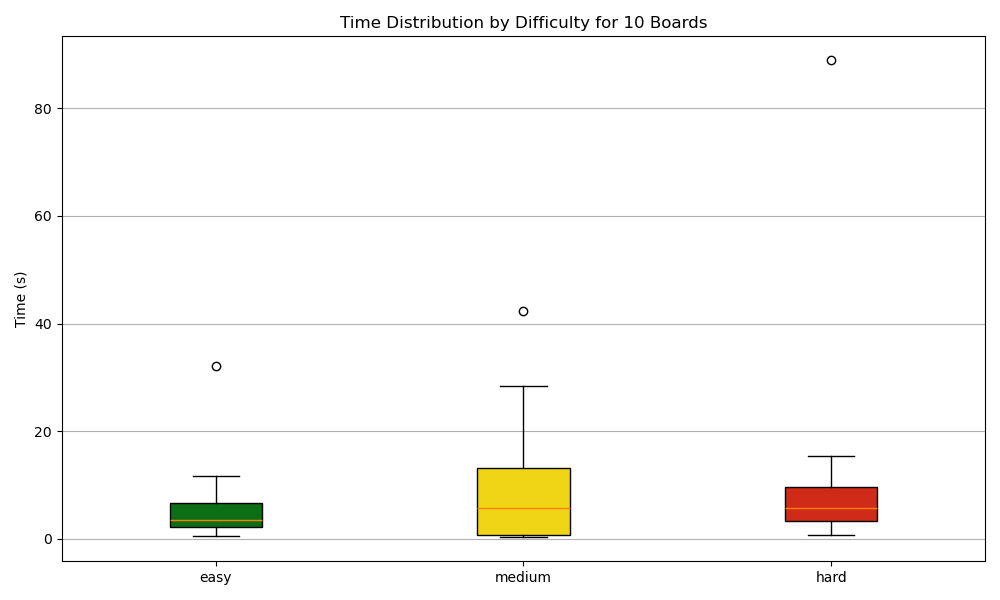
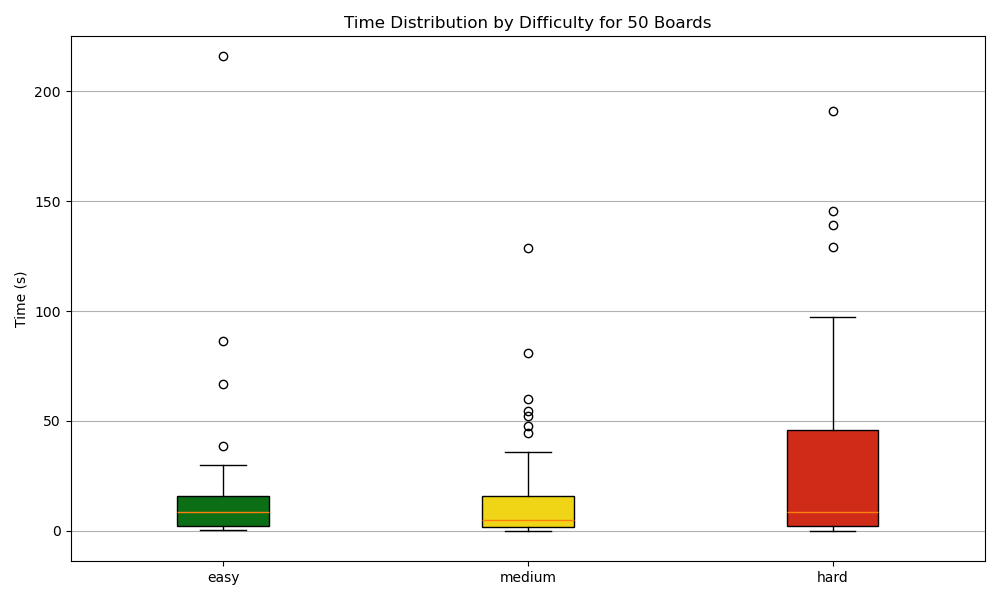
50 boards

diff --git a/sudoku_backtracking.py b/sudoku_backtracking.py
@@ -6,13 +6,21 @@ import backtracking_functions as sb
 import pprint
 import time
 import matplotlib.pyplot as plt
+import pickle
 
-
+def save_dict(save_dict: dict, filename: str):
+    with open(filename, 'wb') as f:
+        pickle.dump(save_dict, f)
+        
+def load_dict(filename: str) -> dict:
+    with open(filename, 'rb') as f:
+        return pickle.load(f)
 
 def test_level(difficulty: str, num_examples: int=10):
-    print(f'Results for {difficulty} level')
+    print(f'RESULTS FOR {difficulty.upper()} LEVEL!!!!:\n')
     times = []
     percents = []
+    progess_count = 1
     boards = sutils.get_test_boards(difficulty=difficulty, num_examples=num_examples)
     for board in boards:
         solver = sb.Backtracking(board['board_input'])
@@ -36,6 +44,8 @@ def test_level(difficulty: str, num_examples: int=10):
         print(f'Number Correct: {num_correct},\n'
               f'Percent Correct: {percent_correct*100:.2f}%\n'
               f'Time Taken to Solve: {elapsed_time}')
+        print(f'Board number: {progess_count}/{num_examples}')
+        progess_count += 1
         print()
         times.append(elapsed_time)
         percents.append(percent_correct)
@@ -66,7 +76,7 @@ def generate_viz(times:dict, percents:dict):
 
     # box plot for times
     plt.figure(figsize=(10,6))
-    box = plt.boxplot(all_times, patch_artist=True, tick_labels=difficulties)
+    box = plt.boxplot(all_times, patch_artist=True, tick_labels=difficulties, showfliers=True)
 
     # apply color
     for patch, diff in zip(box['boxes'], difficulties):
@@ -74,6 +84,7 @@ def generate_viz(times:dict, percents:dict):
 
     # title
     plt.ylabel('Time (s)')
+    plt.ylim(top=225)
     plt.title(f'Time Distribution by Difficulty for {num_examples} Boards')
     plt.grid(axis='y')
     plt.tight_layout()
@@ -95,7 +106,16 @@ def generate_viz(times:dict, percents:dict):
 
 
 def main():
-    times_dict, percent_dict = collect_level_data(num_examples=10)
+    # times_dict, percent_dict = collect_level_data(num_examples=50)
+    
+    # # save the dicts for later
+    # save_dict(save_dict=times_dict, filename='times_dict.pkl')
+    # save_dict(save_dict=percent_dict, filename='percent_dict.pkl')
+    
+    # load in the dicts
+    times_dict = load_dict(filename='times_dict.pkl')
+    percent_dict = load_dict(filename='percent_dict.pkl')
+    
     generate_viz(times=times_dict, percents=percent_dict)
     
 if __name__ == "__main__":
